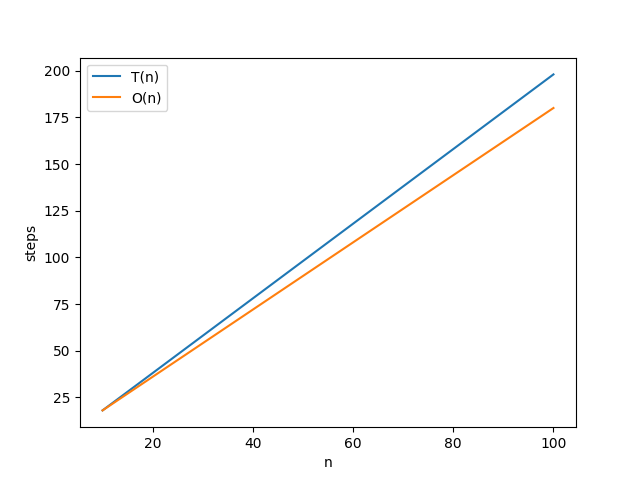
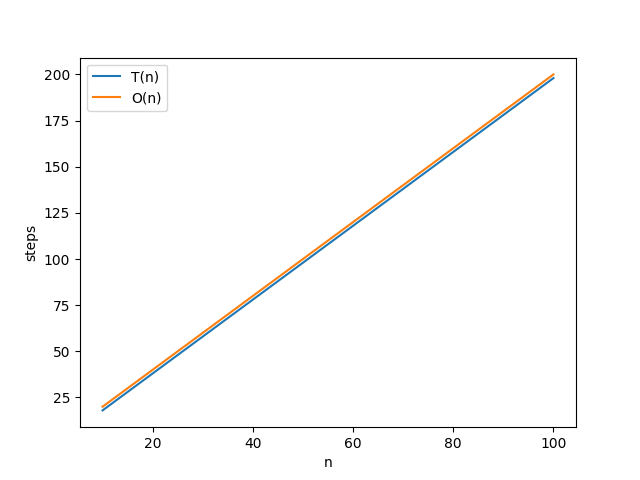
fix big O MT-1B
need to revise MT-2A

diff --git a/report/parts/2.2-base2.tex b/report/parts/2.2-base2.tex
@@ -109,15 +109,18 @@ Resolviendo, $a=16$, $b=-55$ y $c=63$, por lo que:
     T_{\mathrm{2A}}(n) = 16n^2 - 55n + 63
 \end{equation}
 
+
 \subsubsection*{Cota asintótica}
-Al conocer $T_{\mathrm{1A}}(n)$, podemos afirmar que $g(n) = n^2$. Si asumimos $n_0 = 10$, obtenemos $k \geq \frac{1113}{100}$, por lo que la cota asintótica (definida en la ecuación \ref{eq:On}) para esta máquina es:
+La ecuación \ref{eq:On} no es aplicable para polinomios con términos negativos ($a,\ b,\ c < 0$), cuando $n_0$ es pequeño ($n \rightarrow 0$), por lo que para aproximar $O(n)$ podemos suprimir esos términos, es decir, $T'_{\mathrm{2A}}(n) = 16n^2 + 63$.
+
+Al conocer $T_{\mathrm{2A}}(n)$, podemos afirmar que $g(n) = n^2$. Si asumimos $n_0 = 10$, usando $T'_{\mathrm{2A}}(n)$, obtenemos $k \geq \frac{1663}{100}$, por lo que la cota asintótica (definida en la ecuación \ref{eq:On}) para esta máquina es:
 \begin{equation}
-    O_{\mathrm{2A}}(n) = \frac{1113}{100} n^2
+    O_{\mathrm{2A}}(n) = \frac{1663}{100}n^2
 \end{equation}
 
 Se puede observar la cota en comparación con el coste computacional en la Figura \ref{fig:MT-2A_plot} (asumiendo $n_0 = 10$).
 
-% TODO: revisar, 0(n) < T(n)
+
 \begin{figure}[h]
     \centering
     \includegraphics[width=0.6\textwidth]{plot_MT-2A_complexity.png}

diff --git a/report/parts/2.1-base1.tex b/report/parts/2.1-base1.tex
@@ -207,14 +207,15 @@ Resolviendo, $a = 2$ y $b = -2$, por lo que:
 \end{equation}
 
 \subsubsection*{Cota asintótica}
-Al conocer $T_{\mathrm{1B}}(n)$, podemos afirmar que $g(n) = n$. Si asumimos $n_0 = 10$, obtenemos $k \geq \frac{18}{10}$, por lo que la cota asintótica (definida en la ecuación \ref{eq:On}) para esta máquina es:
+La ecuación \ref{eq:On} no es aplicable para polinomios con términos negativos ($a,\ b,\ c < 0$), cuando $n_0$ es pequeño ($n \rightarrow 0$), por lo que para aproximar $O(n)$ podemos suprimir esos términos, es decir, $T'_{\mathrm{1B}}(n) = 2n$.
+
+Al conocer $T_{\mathrm{1B}}(n)$, podemos afirmar que $g(n) = n$. Si asumimos $n_0 = 10$, usando $T'_{\mathrm{1B}}(n)$, obtenemos $k \geq 2$, por lo que la cota asintótica (definida en la ecuación \ref{eq:On}) para esta máquina es:
 \begin{equation}
-    T_{\mathrm{1A}}(n) = \frac{18}{10} n
+    T_{\mathrm{1A}}(n) = 2n
 \end{equation}
 
 Se puede observar la cota en comparación con el coste computacional en la Figura \ref{fig:MT-1B_plot} (asumiendo $n_0 = 10$).
 
-% TODO: revisar, 0(n) < T(n)
 
 \begin{figure}[h]
     \centering

diff --git a/src/test.py b/src/test.py
@@ -256,11 +256,11 @@ if __name__ == "__main__":
         },
         'MT-1B':{
             "T(n)": lambda n : 2*n - 2,
-            "O(n)": lambda n : (18/10)*n
+            "O(n)": lambda n : 2*n
         },
         'MT-2A':{
             "T(n)": lambda n : 16*n**2 - 55*n + 63,
-            "O(n)": lambda n : (1113/100)*n**2
+            "O(n)": lambda n : (1663/100)*n**2
         }
     }
 
